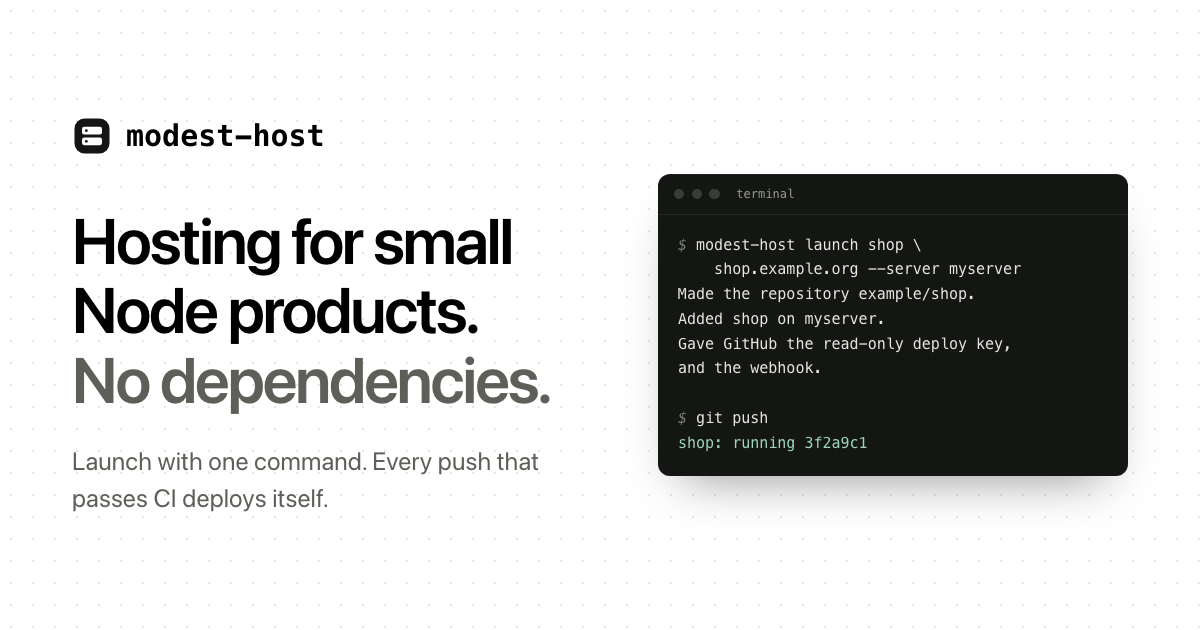
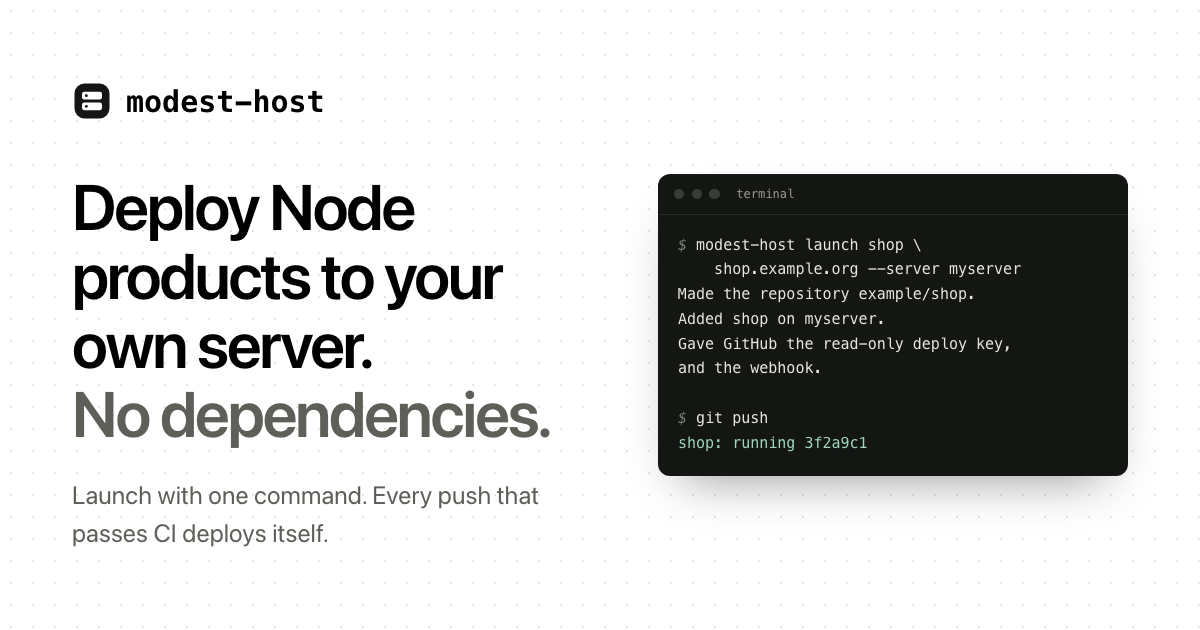
Say it deploys to your own server, not that it's hosting

Changed region(s): [[0.0617, 0.2714, 0.4625, 0.8746], [0.0617, 0.1206, 0.2775, 0.2413]]

diff --git a/site/index.html b/site/index.html
@@ -5,8 +5,8 @@
     <meta name="viewport" content="width=device-width, initial-scale=1" />
     <meta http-equiv="Content-Security-Policy" content="default-src 'none'; style-src 'self'; img-src 'self'; base-uri 'none'; form-action 'none'" />
     <meta name="referrer" content="no-referrer" />
-    <title>modest-host: host small Node products on one server</title>
-    <meta name="description" content="Host small Node products on one server: launch each with a command, and deploy on every push that passes CI. No dependencies, and GitHub never holds a key to your server." />
+    <title>modest-host: deploy Node products to your own server</title>
+    <meta name="description" content="Run small Node products on your own server: launch each with one command, and deploy on every push that passes CI. No dependencies, and GitHub never holds a key to your server." />
     <link rel="canonical" href="https://thisismodest.com/modest-host/" />
     <link rel="icon" href="assets/favicon.svg" type="image/svg+xml" />
     <link rel="apple-touch-icon" href="assets/apple-touch-icon.png" />
@@ -15,12 +15,12 @@
     <meta property="og:site_name" content="modest-host" />
     <meta property="og:locale" content="en_GB" />
     <meta property="og:url" content="https://thisismodest.com/modest-host/" />
-    <meta property="og:title" content="modest-host: host small Node products on one server" />
-    <meta property="og:description" content="Host small Node products on one server: launch each with a command, and deploy on every push that passes CI. No dependencies, and GitHub never holds a key to your server." />
+    <meta property="og:title" content="modest-host: deploy Node products to your own server" />
+    <meta property="og:description" content="Run small Node products on your own server: launch each with one command, and deploy on every push that passes CI. No dependencies, and GitHub never holds a key to your server." />
     <meta property="og:image" content="https://thisismodest.com/modest-host/assets/og.png" />
     <meta property="og:image:width" content="1200" />
     <meta property="og:image:height" content="630" />
-    <meta property="og:image:alt" content="modest-host: Hosting for small Node products. No dependencies. Beside it, a product being launched with one command." />
+    <meta property="og:image:alt" content="modest-host: Deploy Node products to your own server. No dependencies. Beside it, a product being launched with one command." />
     <meta name="twitter:card" content="summary_large_image" />
     <script type="application/ld+json">{"@context": "https://schema.org", "@type": "SoftwareSourceCode", "name": "modest-host", "description": "Host small Node products on one server: launch each with a command, and deploy on every push that passes CI. No dependencies.", "url": "https://thisismodest.com/modest-host/", "codeRepository": "https://github.com/thisismodest/modest-host", "programmingLanguage": "TypeScript", "runtimePlatform": "Node.js 24", "license": "https://opensource.org/license/mit", "author": {"@type": "Organization", "name": "Modest Industries Ltd"}}</script>
     <link rel="stylesheet" href="assets/vendor/modest-ui.min.css" />
@@ -45,7 +45,7 @@
           <div class="hero-grid">
             <div>
               <span class="pill"><span class="dot amber" aria-hidden="true"></span>In development, not yet released</span>
-              <h1>Hosting for small Node products.<br /><span class="quiet">No dependencies.</span></h1>
+              <h1>Deploy Node products to your own server.<br /><span class="quiet">No dependencies.</span></h1>
               <p class="lead">
                 Set up a server once. Then each product is one command to launch, and every push that passes
                 CI deploys itself. GitHub never holds a key to your server.

diff --git a/site/docs.html b/site/docs.html
@@ -5,7 +5,7 @@
     <meta name="viewport" content="width=device-width, initial-scale=1" />
     <meta http-equiv="Content-Security-Policy" content="default-src 'none'; style-src 'self'; img-src 'self'; base-uri 'none'; form-action 'none'" />
     <meta name="referrer" content="no-referrer" />
-    <title>Docs: modest-host, hosting for small Node products</title>
+    <title>Docs: modest-host, deploy Node products to your own server</title>
     <meta name="description" content="How to set up a server for modest-host, launch products on it, and what happens on every push." />
     <link rel="canonical" href="https://thisismodest.com/modest-host/docs.html" />
     <link rel="icon" href="assets/favicon.svg" type="image/svg+xml" />
@@ -15,12 +15,12 @@
     <meta property="og:site_name" content="modest-host" />
     <meta property="og:locale" content="en_GB" />
     <meta property="og:url" content="https://thisismodest.com/modest-host/docs.html" />
-    <meta property="og:title" content="Docs: modest-host, hosting for small Node products" />
+    <meta property="og:title" content="Docs: modest-host, deploy Node products to your own server" />
     <meta property="og:description" content="How to set up a server for modest-host, launch products on it, and what happens on every push." />
     <meta property="og:image" content="https://thisismodest.com/modest-host/assets/og.png" />
     <meta property="og:image:width" content="1200" />
     <meta property="og:image:height" content="630" />
-    <meta property="og:image:alt" content="modest-host: Hosting for small Node products. No dependencies. Beside it, a product being launched with one command." />
+    <meta property="og:image:alt" content="modest-host: Deploy Node products to your own server. No dependencies. Beside it, a product being launched with one command." />
     <meta name="twitter:card" content="summary_large_image" />
     <link rel="stylesheet" href="assets/vendor/modest-ui.min.css" />
     <link rel="stylesheet" href="assets/site.css" />

diff --git a/site/security.html b/site/security.html
@@ -5,7 +5,7 @@
     <meta name="viewport" content="width=device-width, initial-scale=1" />
     <meta http-equiv="Content-Security-Policy" content="default-src 'none'; style-src 'self'; img-src 'self'; base-uri 'none'; form-action 'none'" />
     <meta name="referrer" content="no-referrer" />
-    <title>Security: modest-host, hosting for small Node products</title>
+    <title>Security: modest-host, deploy Node products to your own server</title>
     <meta name="description" content="What modest-host protects, from whom, and how, and what it doesn't do yet." />
     <link rel="canonical" href="https://thisismodest.com/modest-host/security.html" />
     <link rel="icon" href="assets/favicon.svg" type="image/svg+xml" />
@@ -15,12 +15,12 @@
     <meta property="og:site_name" content="modest-host" />
     <meta property="og:locale" content="en_GB" />
     <meta property="og:url" content="https://thisismodest.com/modest-host/security.html" />
-    <meta property="og:title" content="Security: modest-host, hosting for small Node products" />
+    <meta property="og:title" content="Security: modest-host, deploy Node products to your own server" />
     <meta property="og:description" content="What modest-host protects, from whom, and how, and what it doesn't do yet." />
     <meta property="og:image" content="https://thisismodest.com/modest-host/assets/og.png" />
     <meta property="og:image:width" content="1200" />
     <meta property="og:image:height" content="630" />
-    <meta property="og:image:alt" content="modest-host: Hosting for small Node products. No dependencies. Beside it, a product being launched with one command." />
+    <meta property="og:image:alt" content="modest-host: Deploy Node products to your own server. No dependencies. Beside it, a product being launched with one command." />
     <meta name="twitter:card" content="summary_large_image" />
     <link rel="stylesheet" href="assets/vendor/modest-ui.min.css" />
     <link rel="stylesheet" href="assets/site.css" />

diff --git a/site/legal.html b/site/legal.html
@@ -20,7 +20,7 @@
     <meta property="og:image" content="https://thisismodest.com/modest-host/assets/og.png" />
     <meta property="og:image:width" content="1200" />
     <meta property="og:image:height" content="630" />
-    <meta property="og:image:alt" content="modest-host: Hosting for small Node products. No dependencies. Beside it, a product being launched with one command." />
+    <meta property="og:image:alt" content="modest-host: Deploy Node products to your own server. No dependencies. Beside it, a product being launched with one command." />
     <meta name="twitter:card" content="summary_large_image" />
     <link rel="stylesheet" href="assets/vendor/modest-ui.min.css" />
     <link rel="stylesheet" href="assets/site.css" />

diff --git a/README.md b/README.md
@@ -1,6 +1,6 @@
 # modest-host
 
-Host your own small Node products on one server: launch each with a command, and
+Deploy small Node products to your own server: launch each with a command, and
 deploy it on every push that passes CI. No dependencies.
 
 > **In development.** Nothing here is ready to use yet. This README describes what

diff --git a/AGENTS.md b/AGENTS.md
@@ -1,6 +1,6 @@
 # modest-host: agent guide
 
-Host small Node products on one server: launch each with a command, deploy on every
+Deploy small Node products to your own server: launch each with a command, deploy on every
 push that passes CI. No dependencies. Read README.md for what it promises, and
 docs/threat-model.md for how.
 
